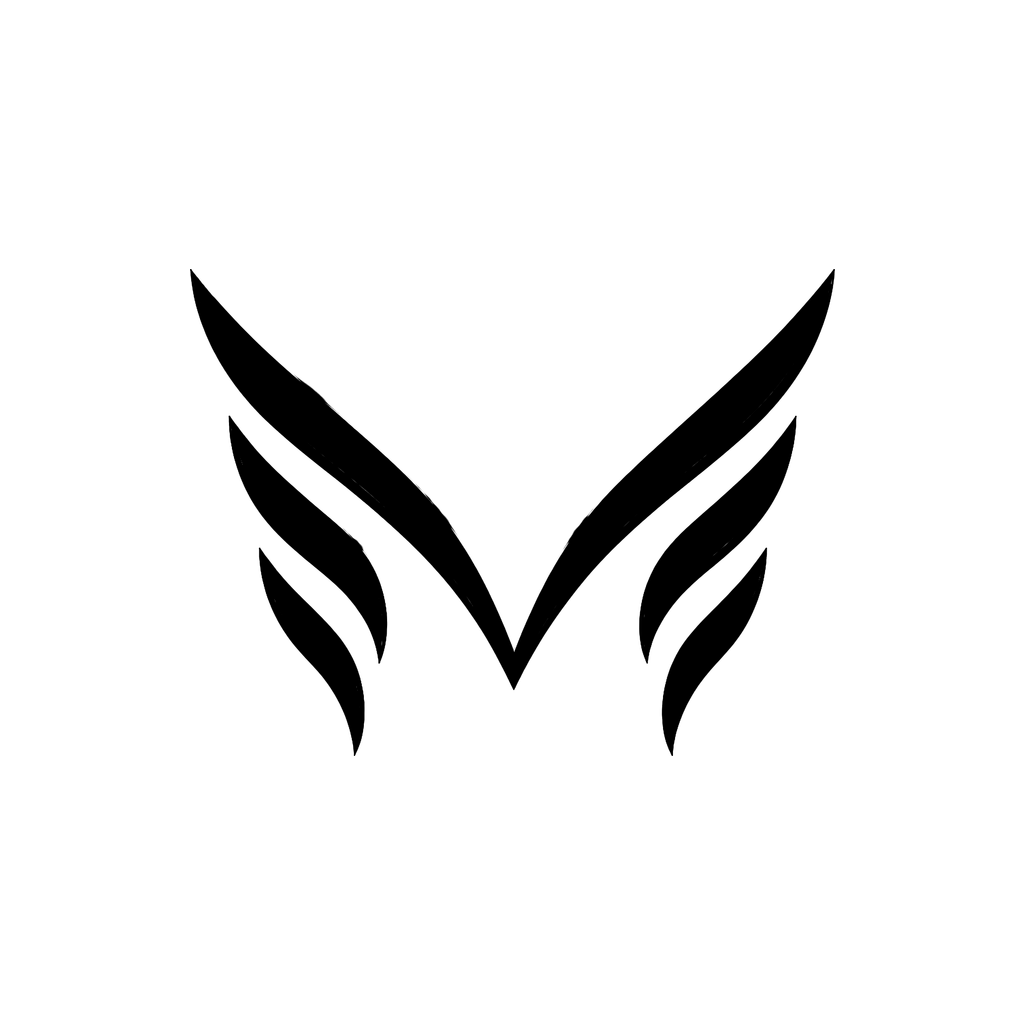
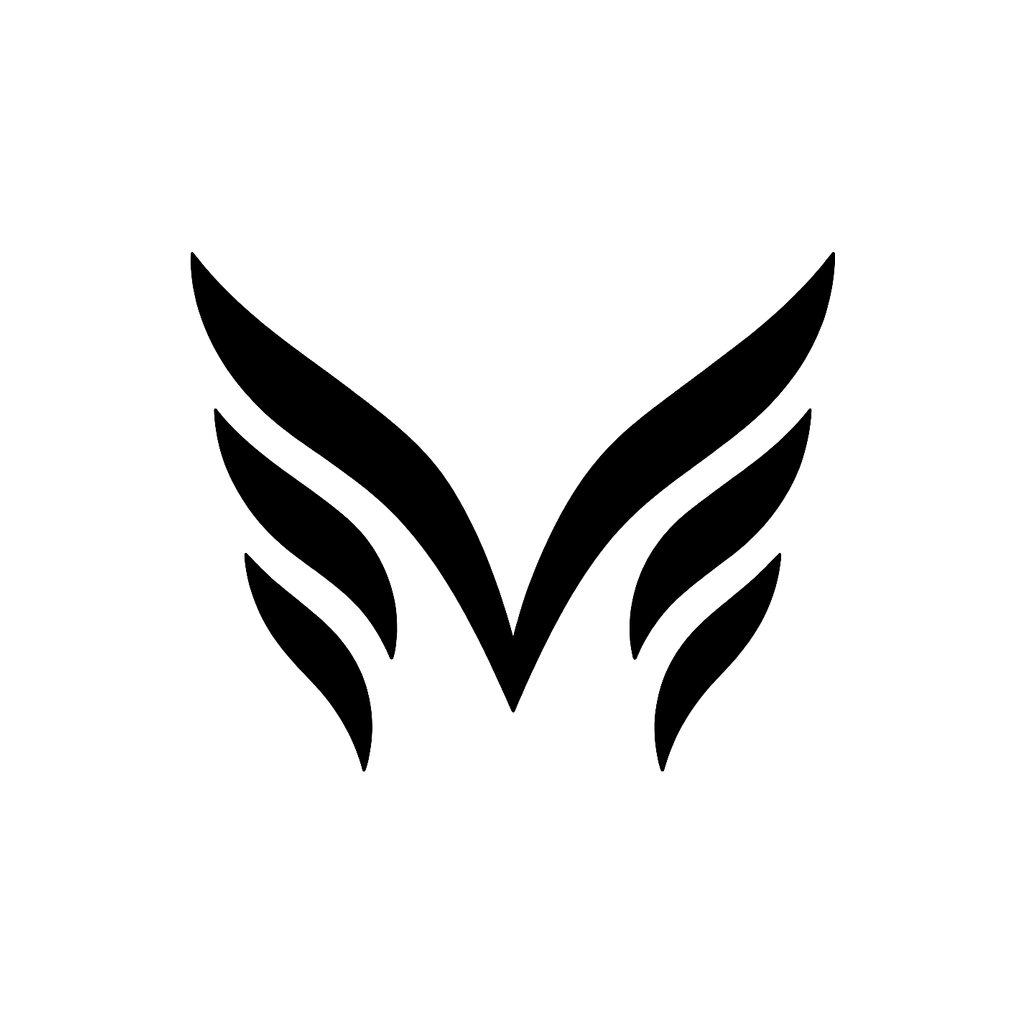
fix(mobile): composer buried under keyboard + owner feedback batch (build 7 review)
- KeyboardAvoidingView offset now accounts for the TopBar above the slot
  (insets.top + 58, was a hardcoded 8): with behavior='padding' the offset
  must equal the view's distance from the WINDOW top, so the composer and
  Send button sat ~110pt behind the keyboard — 'the chat didn't work'
  because Send was never visible while typing. Zero missions in the DB
  confirmed nothing was ever sent.
- '+' in the top bar now lands on home and clears/focuses the composer
  from any screen (it previously only bumped a nonce, invisible outside
  home — and on home its only effect opened the keyboard that then hid
  the composer).
- Drawer account row (avatar + email, lower left) now opens Settings,
  matching the desktop pattern the owner asked for; the separate Settings
  row and inline Sign out are gone (Sign out lives in Settings).
- All logo assets regenerated from the owner's bolder 1254px flat master
  (Downloads/nemesislogotransparent.png, alpha keyed off the baked
  checkerboard): icon, in-app mark, splash, favicon, android set.
  MARK_ASPECT 1.324 -> 1.24 to match the new geometry.

Verified: tsc clean; deno 94/94; expo export bundles.

Changed region(s): [[0.1875, 0.25, 0.8125, 0.75], [0.2188, 0.5, 0.4062, 0.75], [0.1875, 0.375, 0.4062, 0.5625]]

diff --git a/apps/mobile/src/components/AppDrawer.tsx b/apps/mobile/src/components/AppDrawer.tsx
@@ -86,7 +86,7 @@ function DrawerOverlay({ open, onClose, onNewChat }: { open: boolean; onClose: (
 function DrawerContent({ onClose, onNewChat }: { onClose: () => void; onNewChat: () => void }) {
   const insets = useSafeAreaInsets();
   const router = useRouter();
-  const { session, signOut } = useAuth();
+  const { session } = useAuth();
   const email = session?.user?.email ?? "Signed in";
   const initial = (email[0] ?? "?").toUpperCase();
 
@@ -109,20 +109,25 @@ function DrawerContent({ onClose, onNewChat }: { onClose: () => void; onNewChat:
         </Pressable>
 
         <NavRow glyph="▤" label="Library" onPress={() => go("/library")} />
-        <NavRow glyph="⚙" label="Settings" onPress={() => go("/profile")} />
       </ScrollView>
 
-      <View style={[styles.footer, { paddingBottom: insets.bottom + space(3) }]}>
+      {/* The account row IS the door to Settings (owner call 2026-07-17, matching
+          the desktop's lower-left pattern). Sign out lives inside Settings. */}
+      <Pressable
+        testID="drawer-account"
+        style={({ pressed }) => [styles.footer, { paddingBottom: insets.bottom + space(3) }, pressed && styles.footerPressed]}
+        onPress={() => go("/profile")}
+        accessibilityLabel="Open settings"
+      >
         <View style={styles.avatar}>
           <Text style={styles.avatarText}>{initial}</Text>
         </View>
         <View style={{ flex: 1, minWidth: 0 }}>
           <Text style={styles.footerName} numberOfLines={1}>{email}</Text>
+          <Text style={styles.footerHint}>Settings</Text>
         </View>
-        <Pressable onPress={() => { onClose(); void signOut(); }} hitSlop={8}>
-          <Text style={styles.signOut}>Sign out</Text>
-        </Pressable>
-      </View>
+        <Text style={styles.footerChevron}>›</Text>
+      </Pressable>
     </View>
   );
 }
@@ -160,8 +165,10 @@ const styles = StyleSheet.create({
   soon: { color: c.text3, fontSize: 9.5, letterSpacing: 0.5, fontWeight: "700" },
 
   footer: { flexDirection: "row", alignItems: "center", gap: space(2.5), borderTopWidth: 1, borderTopColor: c.line, paddingHorizontal: space(4.5), paddingTop: space(3.5) },
+  footerPressed: { backgroundColor: c.surface },
   avatar: { width: 32, height: 32, borderRadius: 16, backgroundColor: c.surface2, alignItems: "center", justifyContent: "center" },
   avatarText: { color: c.text, ...type.small, fontWeight: "700" },
-  footerName: { color: c.text2, ...type.small },
-  signOut: { color: c.text3, ...type.small, fontWeight: "600" },
+  footerName: { color: c.text, ...type.small, fontWeight: "600" },
+  footerHint: { color: c.text3, ...type.micro },
+  footerChevron: { color: c.text3, fontSize: 20 },
 });

diff --git a/apps/mobile/src/components/TopBar.tsx b/apps/mobile/src/components/TopBar.tsx
@@ -1,4 +1,5 @@
 import { Image, Pressable, StyleSheet, Text, View } from "react-native";
+import { router } from "expo-router";
 import { useSafeAreaInsets } from "react-native-safe-area-context";
 import { useShell } from "./AppDrawer";
 import { c, space } from "@/theme/tokens";
@@ -21,7 +22,18 @@ export function TopBar({ title = "Nemesis", showNewChat = true }: { title?: stri
         <Text style={styles.wordmark}>{title}</Text>
       </View>
       {showNewChat ? (
-        <Pressable style={styles.iconBtn} onPress={newChat} hitSlop={8} accessibilityLabel="New chat">
+        <Pressable
+          style={styles.iconBtn}
+          // "+" = start a new mission from anywhere in the shell: land on home
+          // (no-op if already there) and bump the nonce, which clears + focuses
+          // the composer (owner report: on Library the button looked dead).
+          onPress={() => {
+            newChat();
+            router.push("/");
+          }}
+          hitSlop={8}
+          accessibilityLabel="New mission"
+        >
           <View style={styles.plusH} />
           <View style={styles.plusV} />
         </Pressable>
@@ -33,10 +45,11 @@ export function TopBar({ title = "Nemesis", showNewChat = true }: { title?: stri
 }
 
 const MARK = require("../../assets/images/nemesis-mark.png");
-// 1.324 = the trimmed mark's native width/height; keeps the wings from squashing.
-const MARK_ASPECT = 1.324;
+// 1.240 = the trimmed mark's native width/height (the bolder 1254px flat master,
+// owner-supplied 2026-07-17); keeps the wings from squashing.
+const MARK_ASPECT = 1.24;
 
-// The Nemesis mark — the winged logo, silver on transparent, straight from the brand art.
+// The Nemesis mark — the winged logo, flat white on transparent, from the brand master.
 // `size` is the rendered HEIGHT in points; width follows the mark's own aspect ratio.
 // Width and height are BOTH explicit on purpose: static require()'d images carry their
 // intrinsic pixel size as a default style, and on-device that default beat the

diff --git a/apps/mobile/src/app/(tabs)/index.tsx b/apps/mobile/src/app/(tabs)/index.tsx
@@ -12,6 +12,7 @@ import {
   View,
 } from "react-native";
 import { router } from "expo-router";
+import { useSafeAreaInsets } from "react-native-safe-area-context";
 import { useAuth } from "@/auth/AuthProvider";
 import { useShell } from "@/components/AppDrawer";
 import { EmptyBlock, MissionButton, StatusPill, Surface } from "@/components/mission-ui";
@@ -45,6 +46,7 @@ function relativeTime(iso: string): string {
 export default function MissionsHome() {
   const { session } = useAuth();
   const { resetNonce } = useShell();
+  const insets = useSafeAreaInsets();
   const [missions, setMissions] = useState<Mission[]>([]);
   const [loading, setLoading] = useState(true);
   const [refreshing, setRefreshing] = useState(false);
@@ -116,7 +118,16 @@ export default function MissionsHome() {
   };
 
   return (
-    <KeyboardAvoidingView style={styles.flex} behavior={Platform.OS === "ios" ? "padding" : undefined} keyboardVerticalOffset={8}>
+    <KeyboardAvoidingView
+      style={styles.flex}
+      behavior={Platform.OS === "ios" ? "padding" : undefined}
+      // With behavior="padding", the offset must equal this view's distance from
+      // the WINDOW top — here, the (tabs) shell's TopBar above the <Slot/>:
+      // safe-area inset + bar chrome (~58pt). The old hardcoded 8 under-padded by
+      // the bar's height, burying the composer + Send behind the keyboard (owner
+      // report: "the chat didn't work" — Send was never visible while typing).
+      keyboardVerticalOffset={insets.top + 58}
+    >
       {loading ? (
         <View style={styles.centered} testID="missions-loading">
           <ActivityIndicator color={colors.foreground} />
